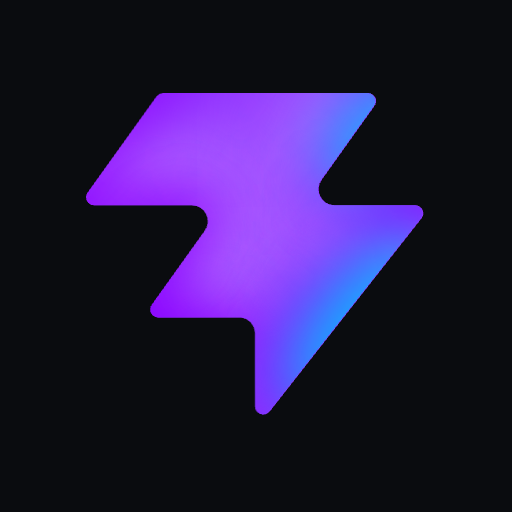
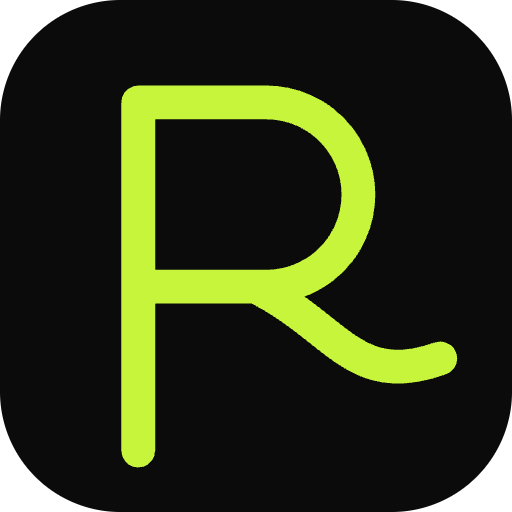
feat(brand): the app is called Ridr, and it finally has its own mark
An R whose leg rides away instead of ending straight — one unbroken band,
carrying the name rather than a symmetry, and without a counter-hole so it
survives being drawn at 27 px. Taken from the design file's `ridr/Mark` as
GEOMETRY, not as a picture: it stays crisp at every size, costs no request, and
takes its colour from wherever it is placed, so the lime mark on the near-black
room and the dark mark on a lime tile are one path rather than two assets that
can drift apart.

WHERE THE OLD NAME WAS ACTUALLY VISIBLE, which was fewer places than it looked:
the tab title and the installed app both said "AI Cycling Coach" / "Coach", the
favicon was a purple bolt from another app entirely, the manifest's start_url
still pointed at the retired `/dashboard`, and the cold-start screen — the first
thing every launch shows — drew a "✱" that was a stand-in from before there was
a logo.

AND ON THE RIDER'S OWN CHEST. `DEFAULT_KIT` asked the image model for "a bold
white 'W3' wordmark across the chest", so every avatar the app has ever rendered
wears the old name. It asks for RIDR now, spelled out letter by letter, because
`NO_TEXT_AT_ALL` two hundred lines below exists precisely because this model
invents plausible words when a wordmark is described loosely.

Avatars already rendered keep their old kit: those are cached renders of real
people's faces, and silently re-rolling them would change how somebody looks to
themselves without anybody asking for it.
[…]

diff --git a/frontend/src/components/RidrMark.tsx b/frontend/src/components/RidrMark.tsx
@@ -1,0 +1,34 @@
+/**
+ * RIDR — the app's mark.
+ *
+ * An R whose leg rides away instead of ending straight: one unbroken band,
+ * carrying the name rather than a symmetry, and deliberately without a
+ * counter-hole so it survives being drawn at 27 px on a tab bar.
+ *
+ * Exported from the design file (`ridr/Mark`) as GEOMETRY rather than as a
+ * picture, so it stays crisp at every size, costs no request, and takes its
+ * colour from wherever it is placed — a lime mark on the near-black room and a
+ * near-black mark on a lime tile are the same path, not two assets that can
+ * drift apart. The one raster copy, `public/ridr/mark.svg`, exists for the
+ * places a file is required (favicon, share cards, composited art).
+ *
+ * The stroke width is the design file's own 13.2 at a 200 unit box; scaling is
+ * the viewBox's job, so it is never restated in pixels here.
+ */
+export default function RidrMark({ size = 28, color = 'currentColor' }: {
+  size?: number
+  color?: string
+}) {
+  return (
+    <svg width={size} height={size} viewBox="0 0 200 200" aria-hidden focusable="false">
+      <path
+        d="M54 176v-136h50a36 36 0 0 1 0 72h-50m46 0c32 16 38 40 72 28"
+        fill="none" stroke={color} strokeWidth={13.2}
+        strokeLinecap="round" strokeLinejoin="round" />
+    </svg>
+  )
+}
+
+/** The brand lime, from the design file's own `g-lime`. Not the app's `#BFFF3C`
+ *  acid: that token is the interface's accent and this one is the logo's. */
+export const RIDR_LIME = '#C6F53C'

diff --git a/frontend/src/components/AppLoading.tsx b/frontend/src/components/AppLoading.tsx
@@ -40,6 +40,8 @@ const RULE = '#FFFFFF14'
 const QUIET = '#6E7379'
 const FONT = '"Inter Tight", ui-sans-serif, system-ui, sans-serif'
 
+import RidrMark from './RidrMark'
+
 export default function AppLoading({ label }: { label?: string }) {
   return (
     <div
@@ -60,12 +62,11 @@ export default function AppLoading({ label }: { label?: string }) {
           <circle cx={38} cy={38} r={32} fill="none" stroke={RULE} strokeWidth={4} />
           <path d="M38 6 a32 32 0 0 1 32 32" fill="none" stroke={ACID} strokeWidth={4} strokeLinecap="round" />
         </svg>
-        {/* the mark */}
-        <span
-          className="app-loading-mark"
-          style={{ fontSize: 26, fontWeight: 800, color: ACID, letterSpacing: -1 }}
-        >
-          ✱
+        {/* the mark — the real one now. The ✱ that stood here was a stand-in
+            from before the app had a logo, and it was the first thing every
+            cold start showed. */}
+        <span className="app-loading-mark" style={{ display: 'grid', placeItems: 'center' }}>
+          <RidrMark size={34} color={ACID} />
         </span>
       </div>
       {label && (

diff --git a/frontend/index.html b/frontend/index.html
@@ -6,13 +6,13 @@
     <!-- viewport-fit=cover → content extends under the notch/home-indicator; the app
          reclaims that space with env(safe-area-inset-*). user-scalable=no for a native feel. -->
     <meta name="viewport" content="width=device-width, initial-scale=1.0, viewport-fit=cover, user-scalable=no" />
-    <title>AI Cycling Coach</title>
+    <title>Ridr</title>
     <!-- PWA / iPhone "Add to Home Screen" native app behaviour -->
-    <meta name="theme-color" content="#0A0C0F" />
+    <meta name="theme-color" content="#0B0B0C" />
     <meta name="apple-mobile-web-app-capable" content="yes" />
     <meta name="mobile-web-app-capable" content="yes" />
     <meta name="apple-mobile-web-app-status-bar-style" content="black-translucent" />
-    <meta name="apple-mobile-web-app-title" content="Coach" />
+    <meta name="apple-mobile-web-app-title" content="Ridr" />
     <link rel="apple-touch-icon" href="/apple-touch-icon.png" />
     <link rel="manifest" href="/manifest.webmanifest" />
     <link rel="preconnect" href="https://fonts.googleapis.com" />

diff --git a/backend/app/services/cyclr_studio.py b/backend/app/services/cyclr_studio.py
@@ -209,8 +209,9 @@ INTEGRATION = (
 DEFAULT_KIT = (
     "THE STARTER KIT, worn by every rider so the look is consistent from day one, and described "
     "here as the garment it is. A fitted short-sleeved cycling jersey in matte black with bold "
-    "acid lime-green (#C8FF00) side panels and sleeves, a bold white 'W3' wordmark across the "
-    "chest and a thin lime accent stripe, worn over matching black bib shorts. "
+    "acid lime-green (#C8FF00) side panels and sleeves, the wordmark RIDR across the chest in "
+    "bold white capitals — exactly the four letters R, I, D, R and no other word — and a thin "
+    "lime accent stripe, worn over matching black bib shorts. "
     "Render the fabric richly: the fine ribbed weave of technical lycra catching the light, crisp "
     "flatlock seams tracing every panel join, a full-length front zip with individual teeth and a "
     "small pull tab at the collar, a gripper band at the hem and cuffs, and the subtle sheen "
